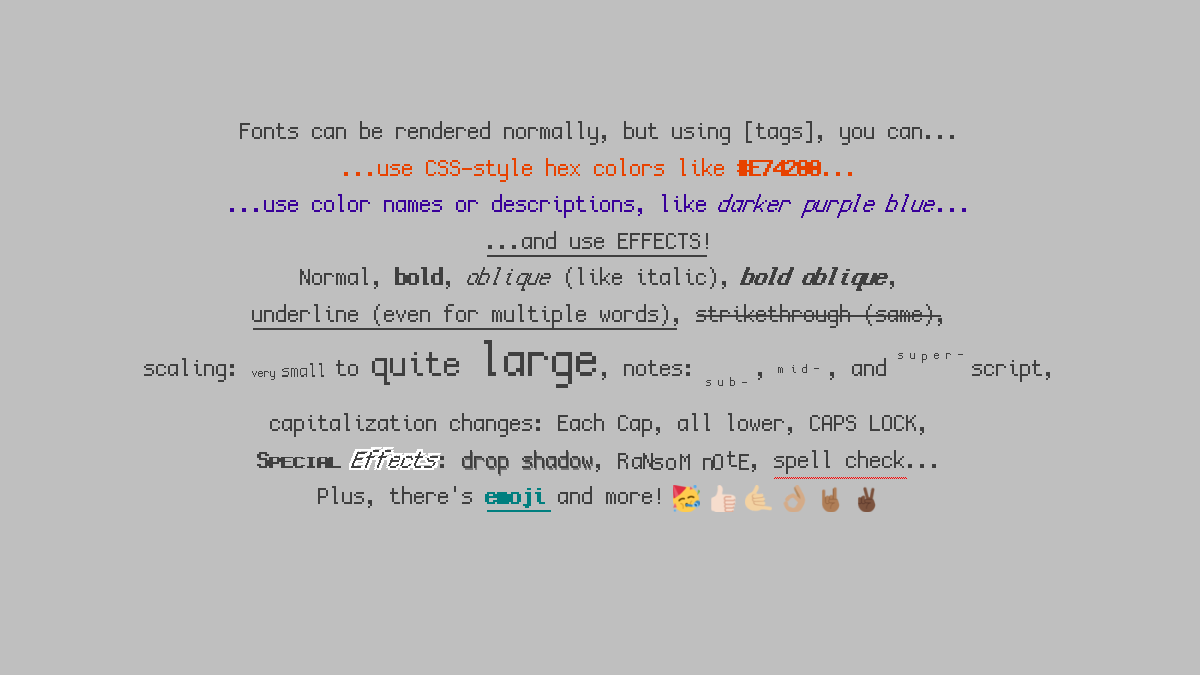
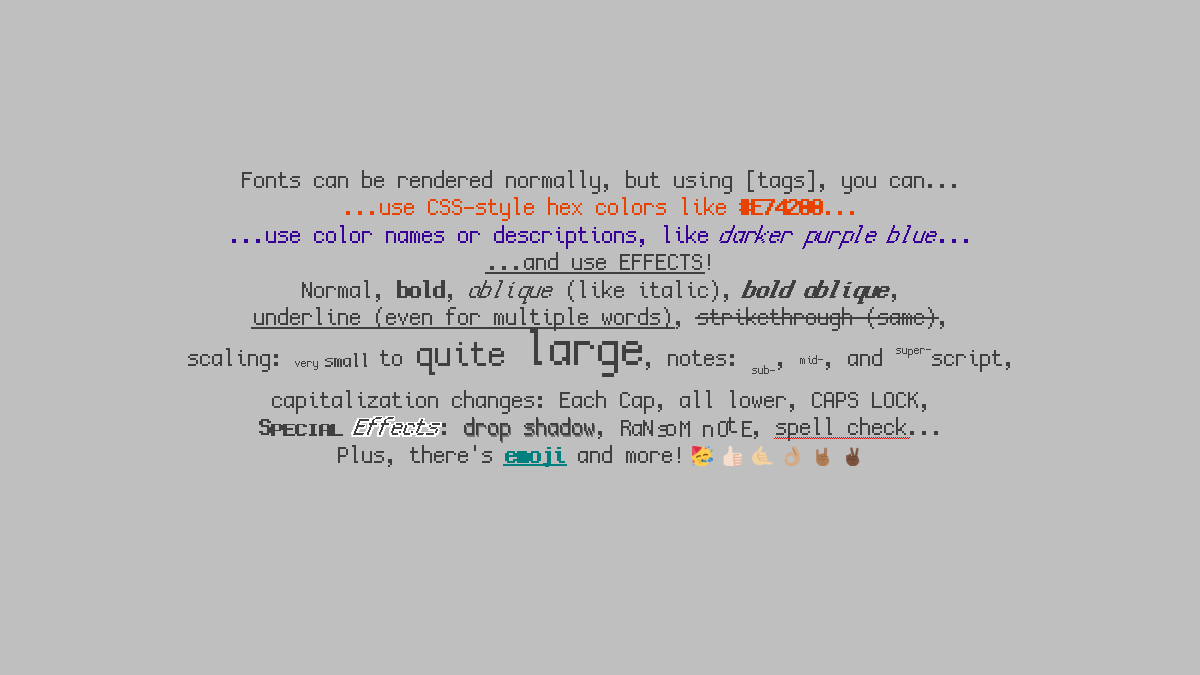
The new Cozette's line spacing is much better!
Like the original font, it should be pretty tight on spacing.

Changed region(s): [[0.1233, 0.1867, 0.8017, 0.7778], [0.7708, 0.5289, 0.8633, 0.56]]

diff --git a/src/test/java/com/github/tommyettinger/textra/PreviewGenerator.java b/src/test/java/com/github/tommyettinger/textra/PreviewGenerator.java
@@ -123,7 +123,10 @@ public class PreviewGenerator extends ApplicationAdapter {
         all[idx++] = KnownFonts.getQuanPixel().setName(KnownFonts.QUANPIXEL + "-standard");
  */
         // DEBUG
-        Font[] all = new Font[]{KnownFonts.getLanaPixel().setName(KnownFonts.LANAPIXEL + "-standard")};
+        Font[] all = new Font[]{
+//                KnownFonts.getLanaPixel().setName(KnownFonts.LANAPIXEL + "-standard")
+                KnownFonts.getCozette().setName(KnownFonts.COZETTE + "-standard")
+        };
 
         fnt = all[0];
 //        fnt = fonts[fonts.length - 1];
